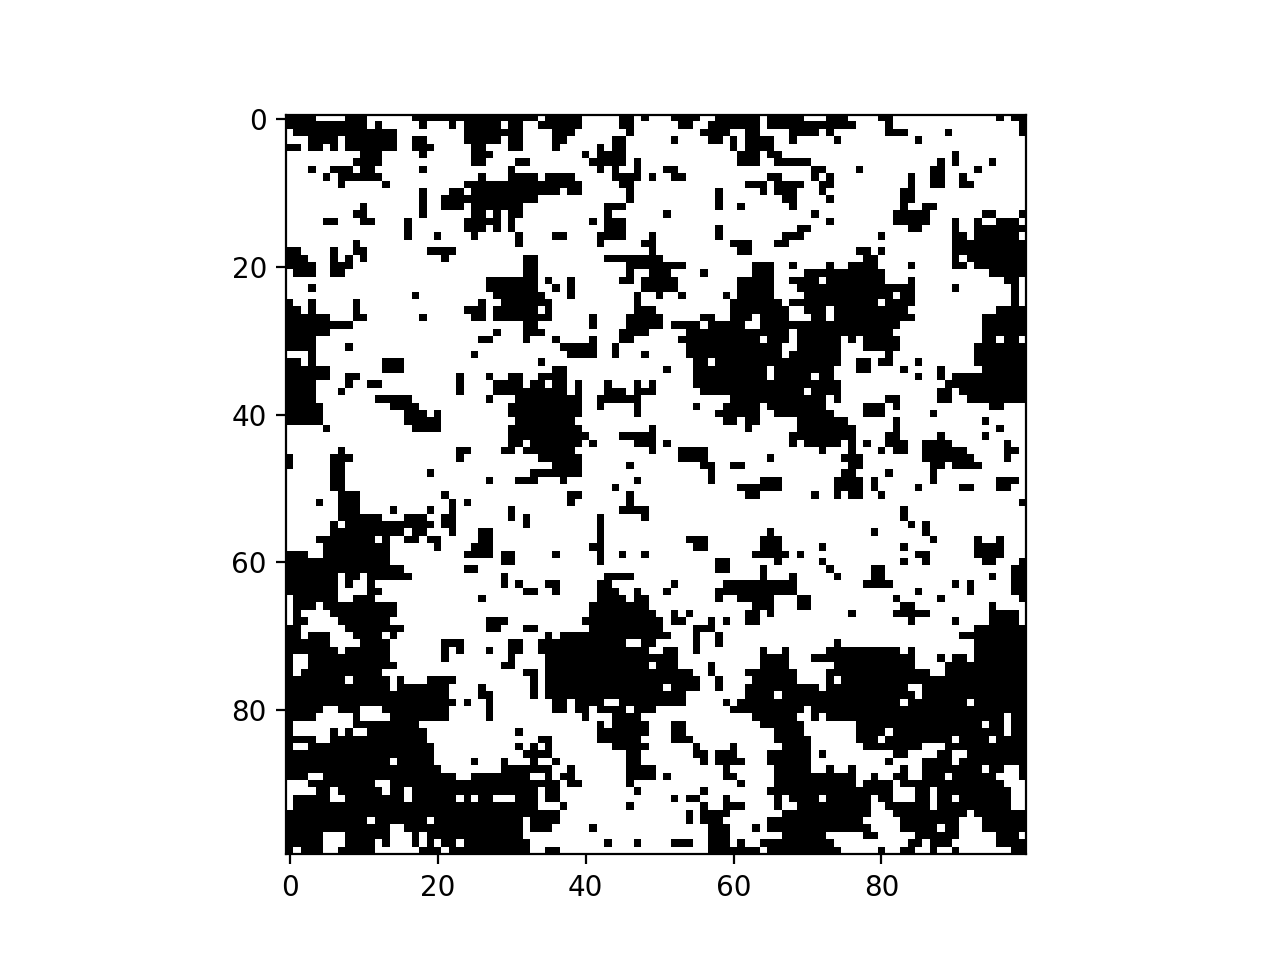
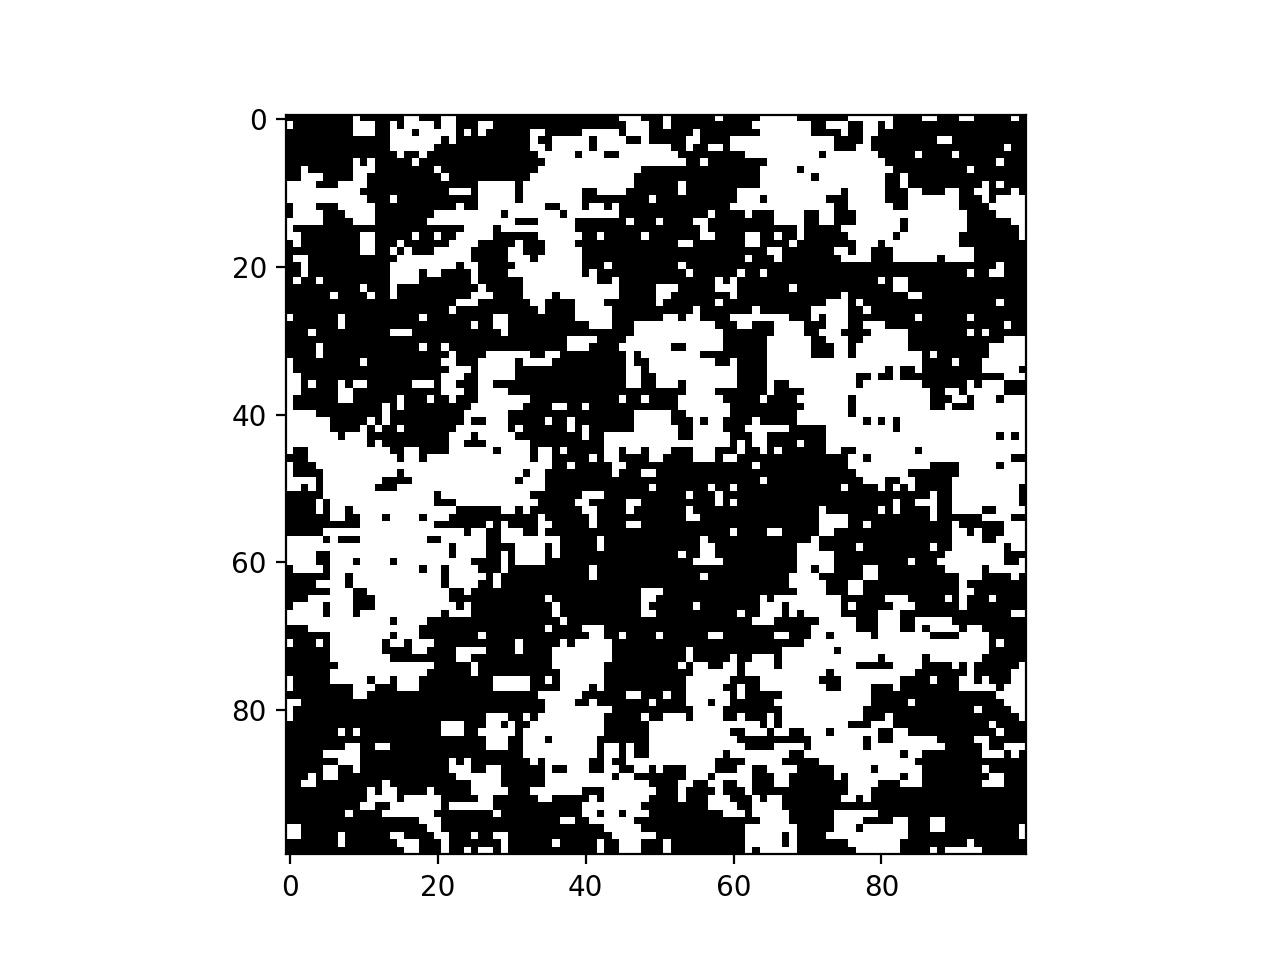
Added figures from 2d ising run.

Changed region(s): [[0.2188, 0.0938, 0.8125, 0.9062]]

diff --git a/code/ising2d.py b/code/ising2d.py
@@ -47,6 +47,8 @@ class Ising2D(object):
         logging.info('Starting simulation.')
         for i in range(max_steps):
             self.step()
+            if self.step_num in [0,100000,200000,400000,600000,1000000,2000000,4000000]:
+                self.visualize_lattice()
 
     def step(self):
         logging.info("Step " + str(self.step_num))
@@ -109,7 +111,7 @@ if __name__ == "__main__":
     logging.basicConfig(filename="ising2d.log", level=logging.INFO, format='%(message)s')
     lat = Ising2D(100, 100, init_T=0)
     #lat.print_lattice()
-    #lat.visualize_lattice()
+    lat.visualize_lattice()
     lat.simulate(max_steps = 10000000, T=2.4)
     lat.print_lattice()
     lat.visualize_lattice()
